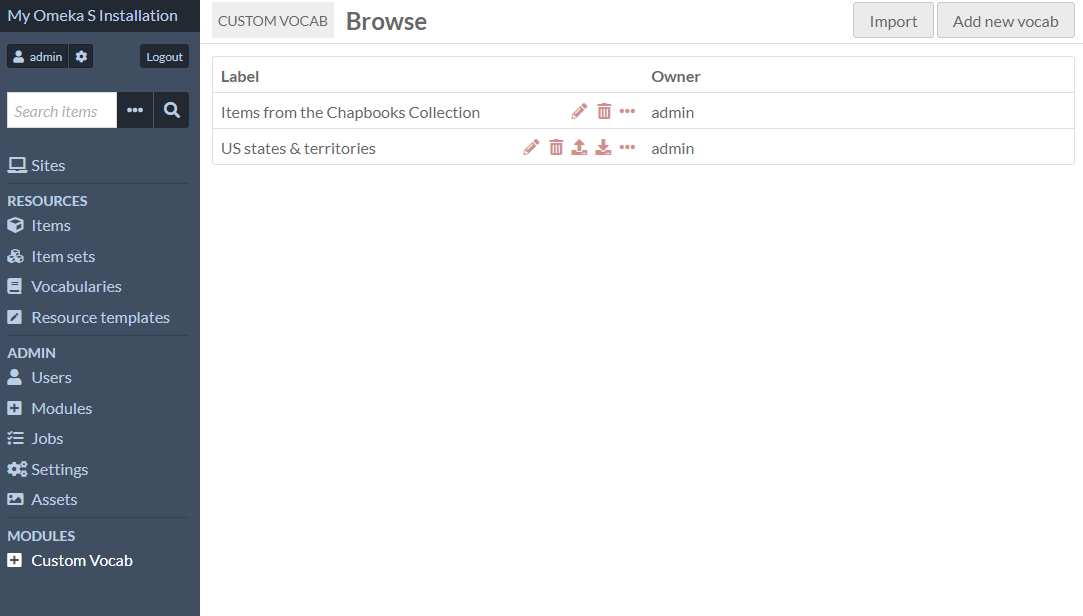
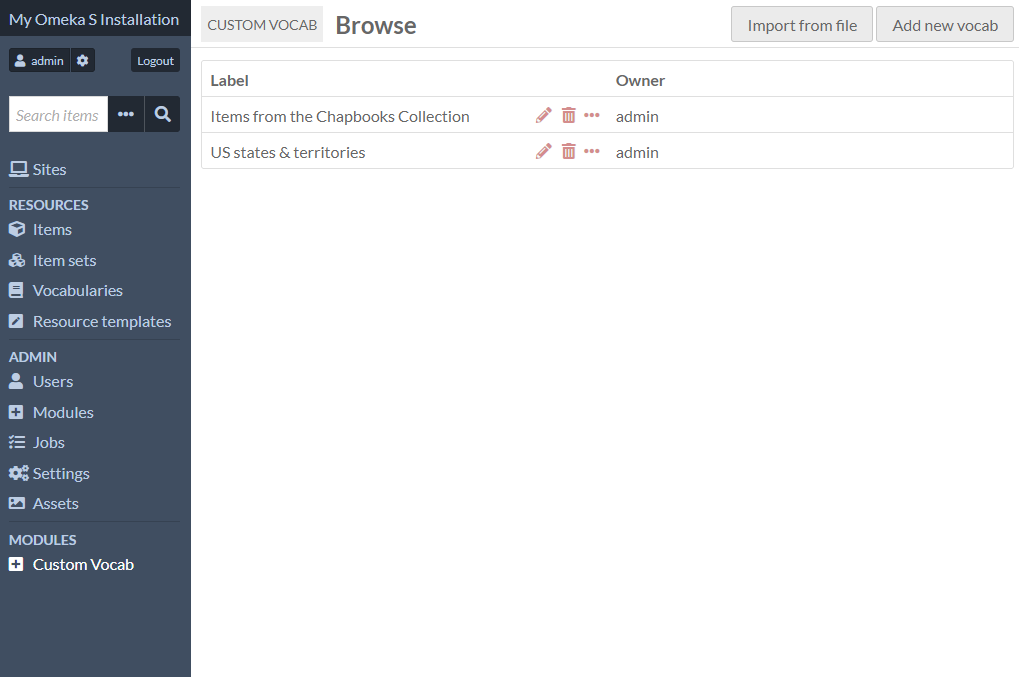
Update

Changed region(s): [[0.0, 0.0, 1.0, 0.9253], [0.7301, 0.0, 1.0, 0.0617]]

diff --git a/docs/modules/customvocab.md b/docs/modules/customvocab.md
@@ -10,7 +10,7 @@ Custom Vocab is available to users who are at the [Editor role and above](../adm
 
 Once you have installed and activated the module, go to the Custom Vocab section in the left-hand navigation, under Modules.
 
-Click the "Add a New Vocab" button in the upper right-hand corner of the window.
+Click the "Add new vocab" button in the upper right-hand corner of the window.
 
 The Add Custom Vocab page has four fields: Label, Language, Vocab Type, and Terms/Items/URI input.
 
@@ -32,15 +32,15 @@ Hit "Submit" to save changes.
 
 ## Manage custom vocabs
 
-Once you have created at least one vocabulary, the Custom Vocab module tab will display a table of your existing vocabularies. The table displays the Label, the buttons for edit, delete, and display information (ellipsis), and the Owner or creator of the vocabulary. 
+Once you have created at least one vocabulary, the Custom Vocab tab will display a table of your existing vocabularies. The table displays the Label, the buttons for edit, delete, and display information (ellipsis), and the Owner or creator of the vocabulary. 
 
-You also have the options to export your vocaularies, or to update an existing vocabulary using a file. Note that Items-type vocabularies cannot be exported or imported, as these vocabularies work as Omeka resources and could not replicated on another site.
-
-Clicking the ellipsis will show you the language of a vocabulary as well as a full listing of its terms. 
-
-There is also a button to "Import" a vocabulary using a file, in the top right. Note that Importing will add a new listing to the table. If you are attmepting to update an existing vocabulary in your installation, do not use the "Import" button. Update the vocabulary from its entry in the table.
+There is also a button to "Import" a vocabulary using a file, in the top right. Note that importing will add a new listing to the table. If you are attmepting to update an existing vocabulary in your installation, do not use the "Import from file" button. Update the vocabulary from its entry in the table.
 
 ![Custom Vocab tab with two existing vocabularies](../modules/modulesfiles/customVocab_manage.png)
+
+Clicking the ellipsis will show you the language of a vocabulary as well as a full listing of its terms. There are two buttons that allow you to "Export" a vocabulary, which can then be shared with other Omeka installations, or to "Update" the existing vocabulary from a file. Note that Items-type vocabularies cannot be exported or imported, as these vocabularies work as Omeka resources and could not replicated on another site.
+
+![Custom Vocab tab with two existing vocabularies](../modules/modulesfiles/customVocab_updateExport.png)
 
 When editing a custom vocabulary, you can change the label, language, or terms.
 
